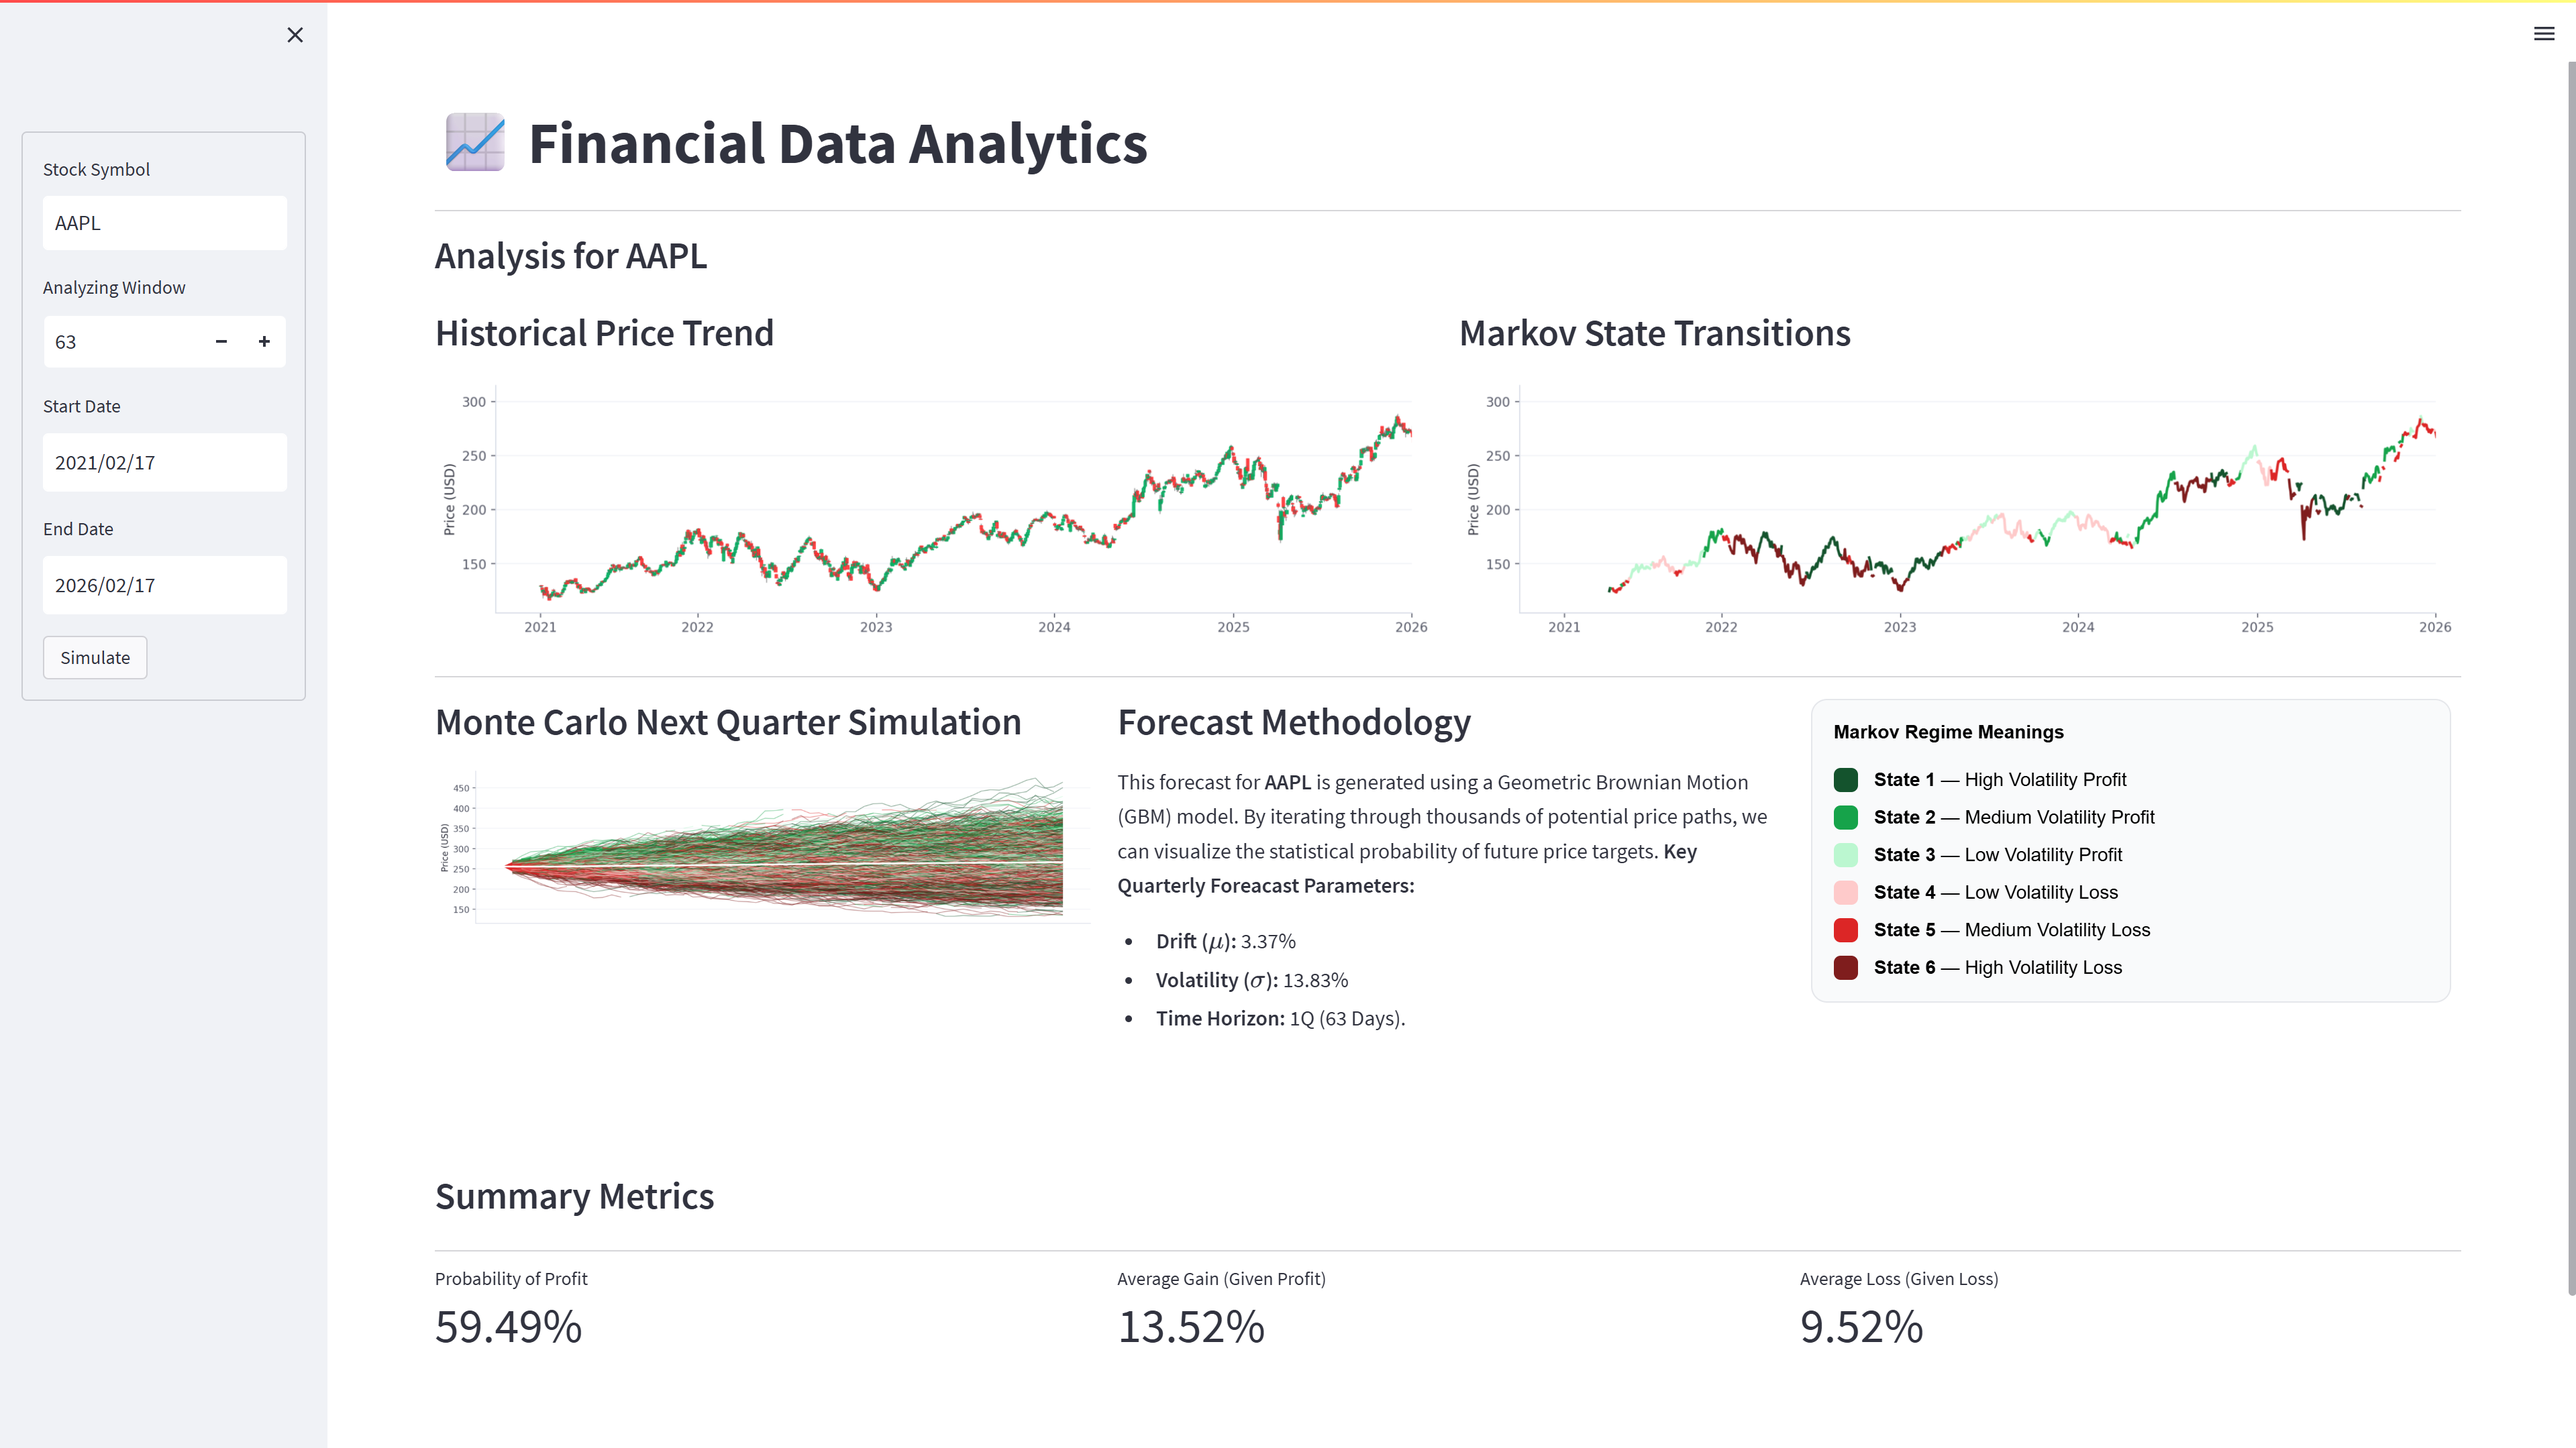
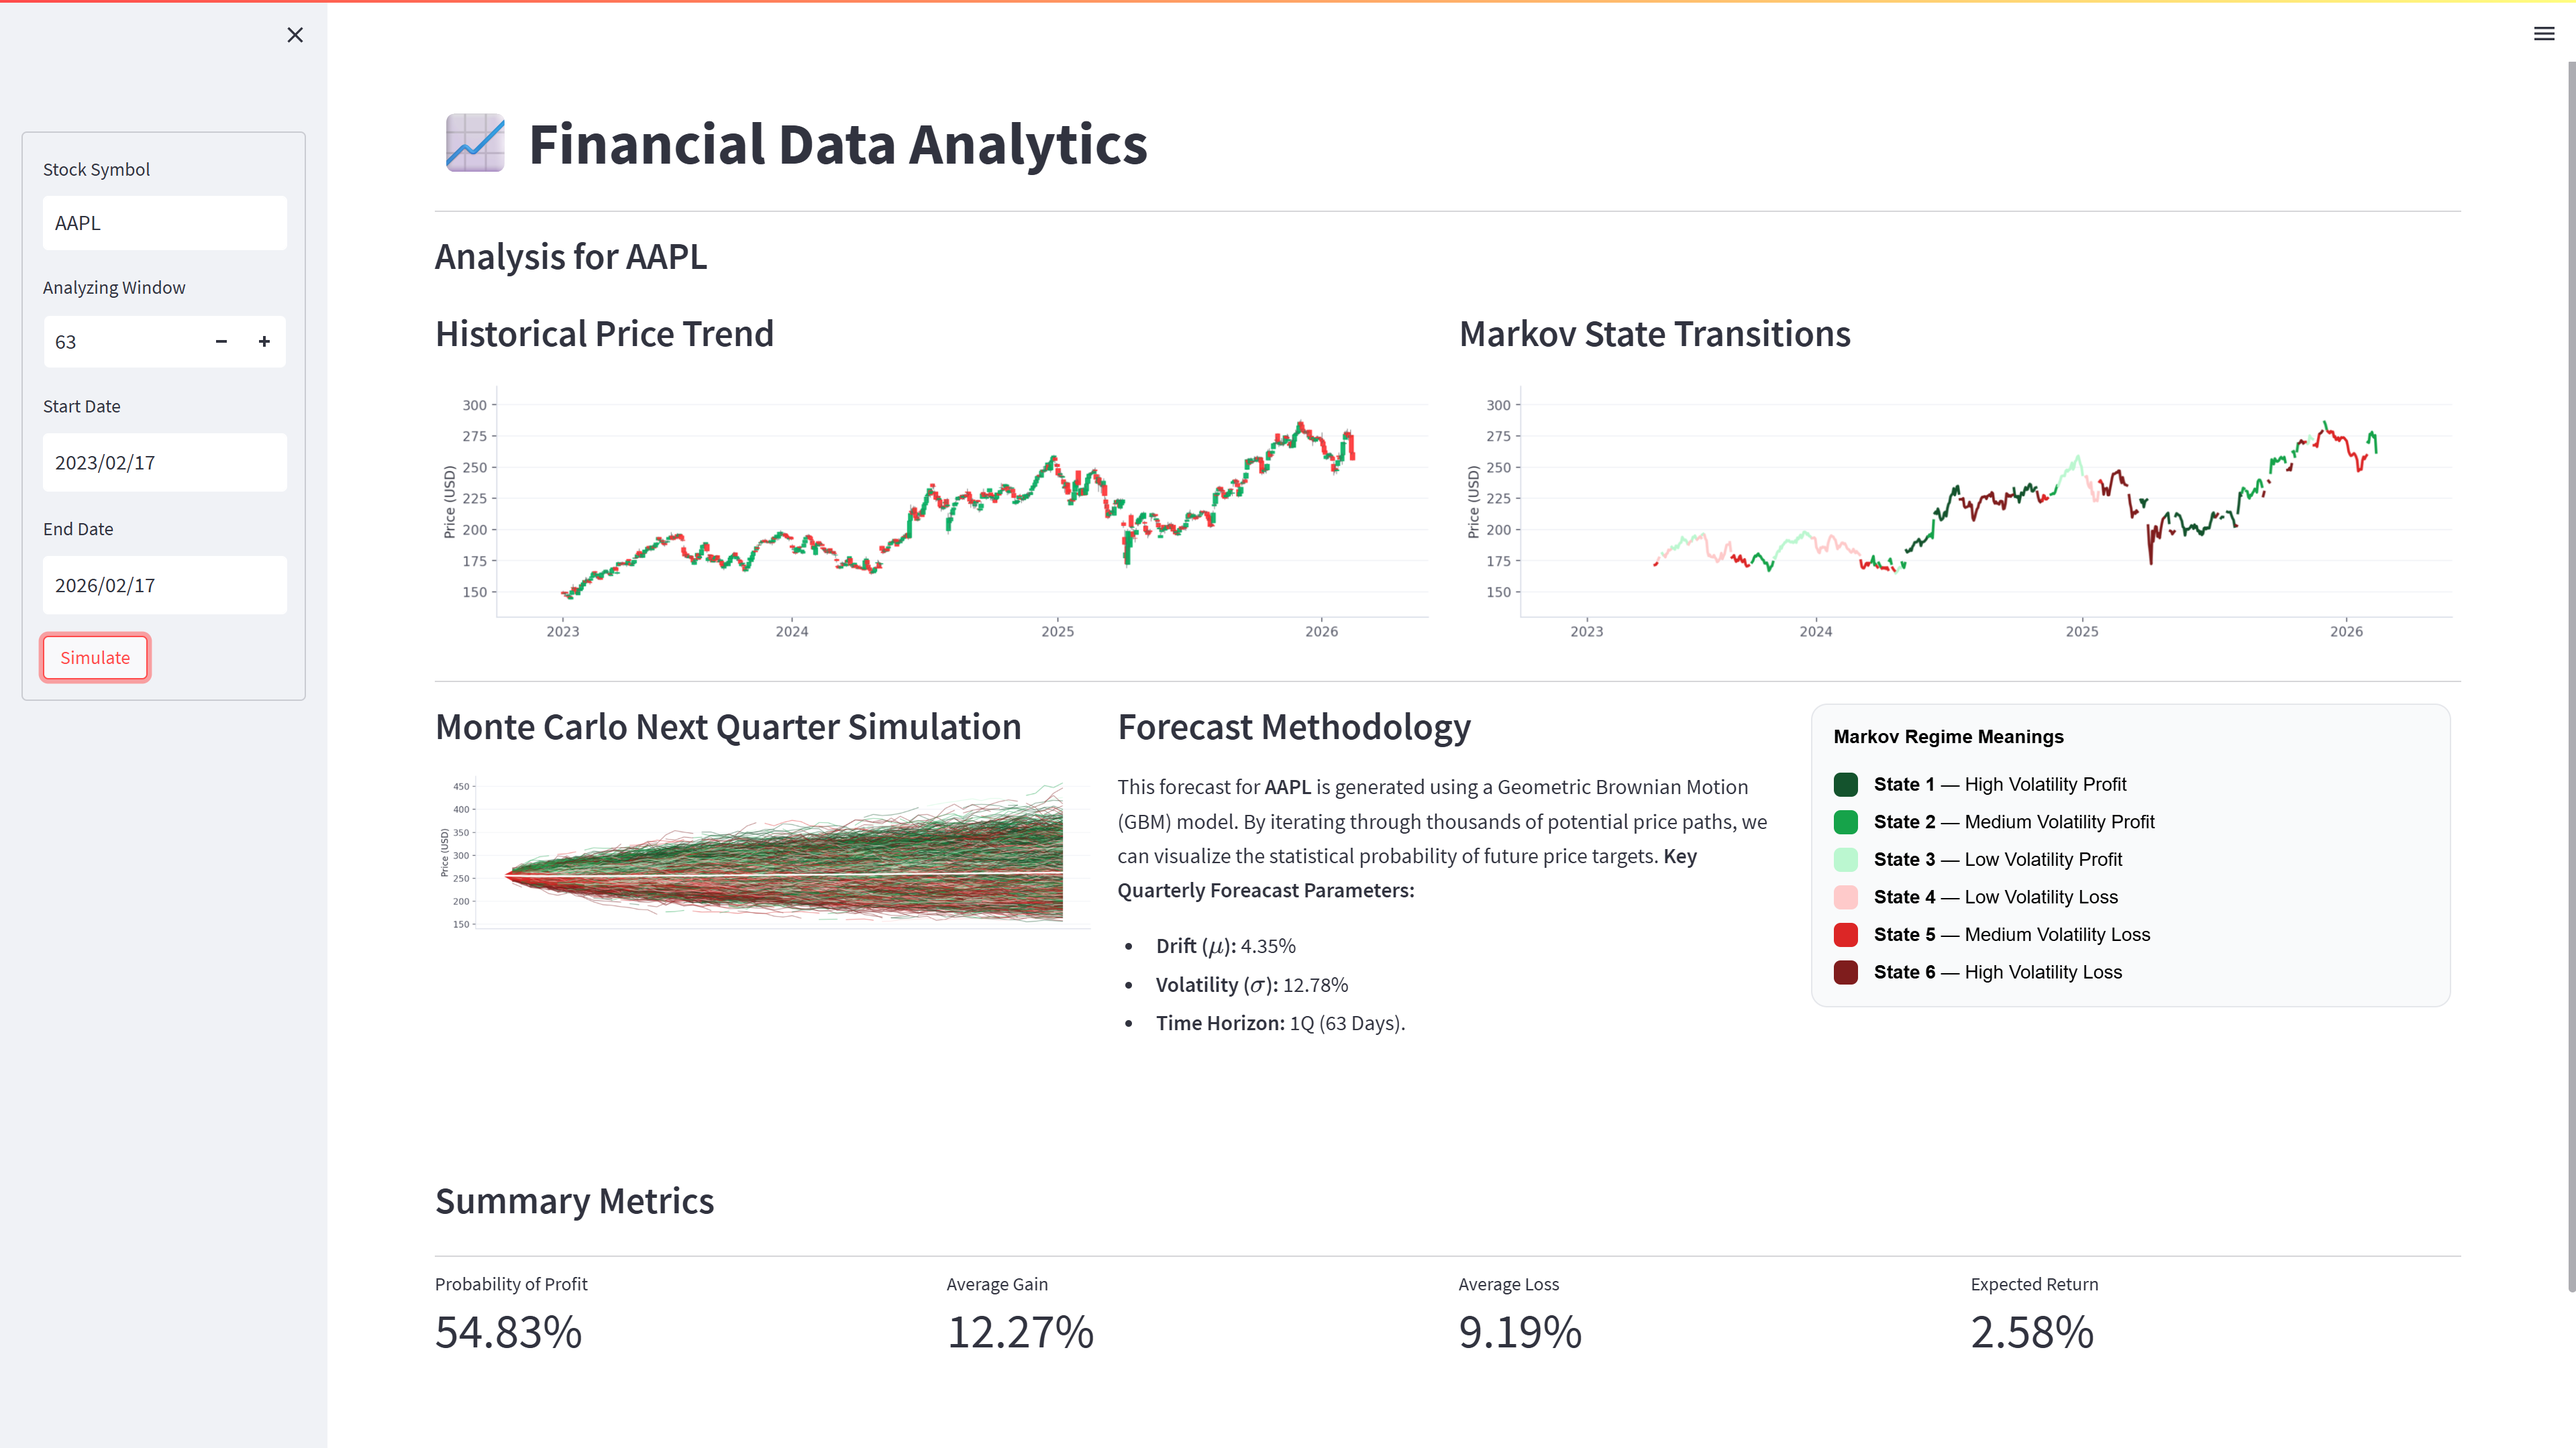
another UI update

diff --git a/app.py b/app.py
@@ -117,12 +117,18 @@ if submit_button:
     final_prices = np.array(stock.pred_price_runs)[:, -1]
     returns = final_prices / S0 - 1
     pop = (returns > 0).mean()
-    avg_gain = returns[returns > 0].mean()
-    avg_loss = returns[returns < 0].mean()
-    col1, col2, col3 = st.columns(3)
+    avg_gain = returns[returns > 0].mean() if (returns > 0).any() else 0
+    avg_loss = returns[returns < 0].mean() if (returns < 0).any() else 0
+    expected_return = returns.mean()
+    col1, col2, col3, col4 = st.columns(4)
     col1.metric("Probability of Profit", f"{pop:.2%}")
-    col2.metric("Average Gain (Given Profit)", f"{avg_gain:.2%}")
-    col3.metric("Average Loss (Given Loss)", f"{abs(avg_loss):.2%}")
+    col2.metric("Average Gain", f"{avg_gain:.2%}")
+    col3.metric("Average Loss", f"{abs(avg_loss):.2%}")
+    delta_color = "normal"
+    col4.metric(
+        "Expected Return",
+        f"{expected_return:.2%}"
+    )
 
 else:
     st.info("Enter a ticker symbol in the sidebar and click 'Simulate' to begin.")
